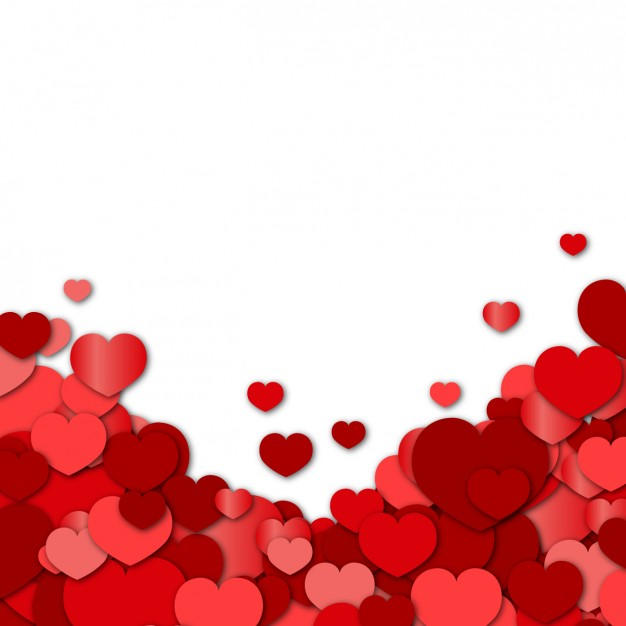
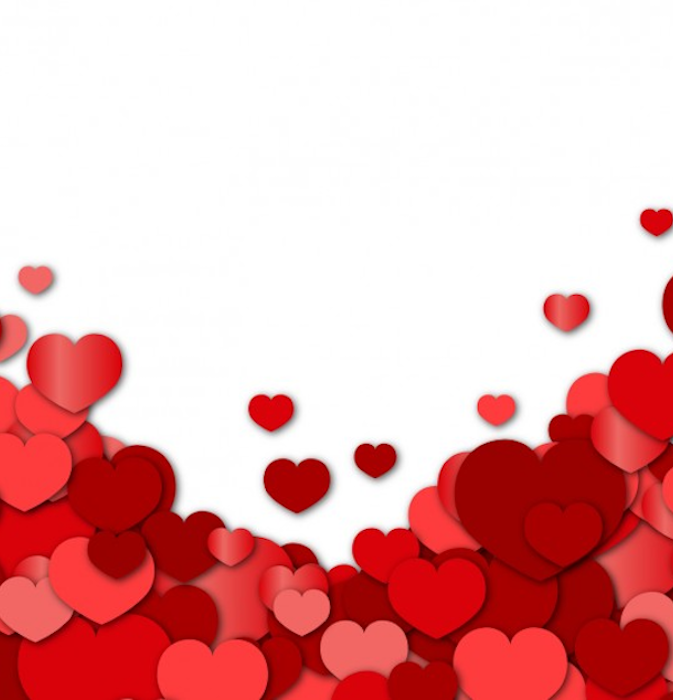
Finish adding background classes to be swapped in and resize hearts background

Changed region(s): [[0.0, 0.3642, 1.0, 1.0], [0.9409, 0.2732, 1.0, 0.3642], [0.7588, 0.7588, 0.7891, 0.7891]]

diff --git a/styles.css b/styles.css
@@ -113,12 +113,24 @@ article {
   background: url("./assets/park.png");
 }
 
-.outerspace {
-  background: url("./assets/outerspace.png")
+.space {
+  background: url("./assets/outerspace.png");
 }
 
 .beach {
-  background: url("./assets/beach.png")
+  background: url("./assets/beach.png");
+}
+
+.hearts {
+  background: url("./assets/hearts.png");
+}
+
+.blue {
+  background-color: #487AB9;
+}
+
+.yellow {
+  background-color: #F6EC5F;
 }
 
 /* Right Section */
